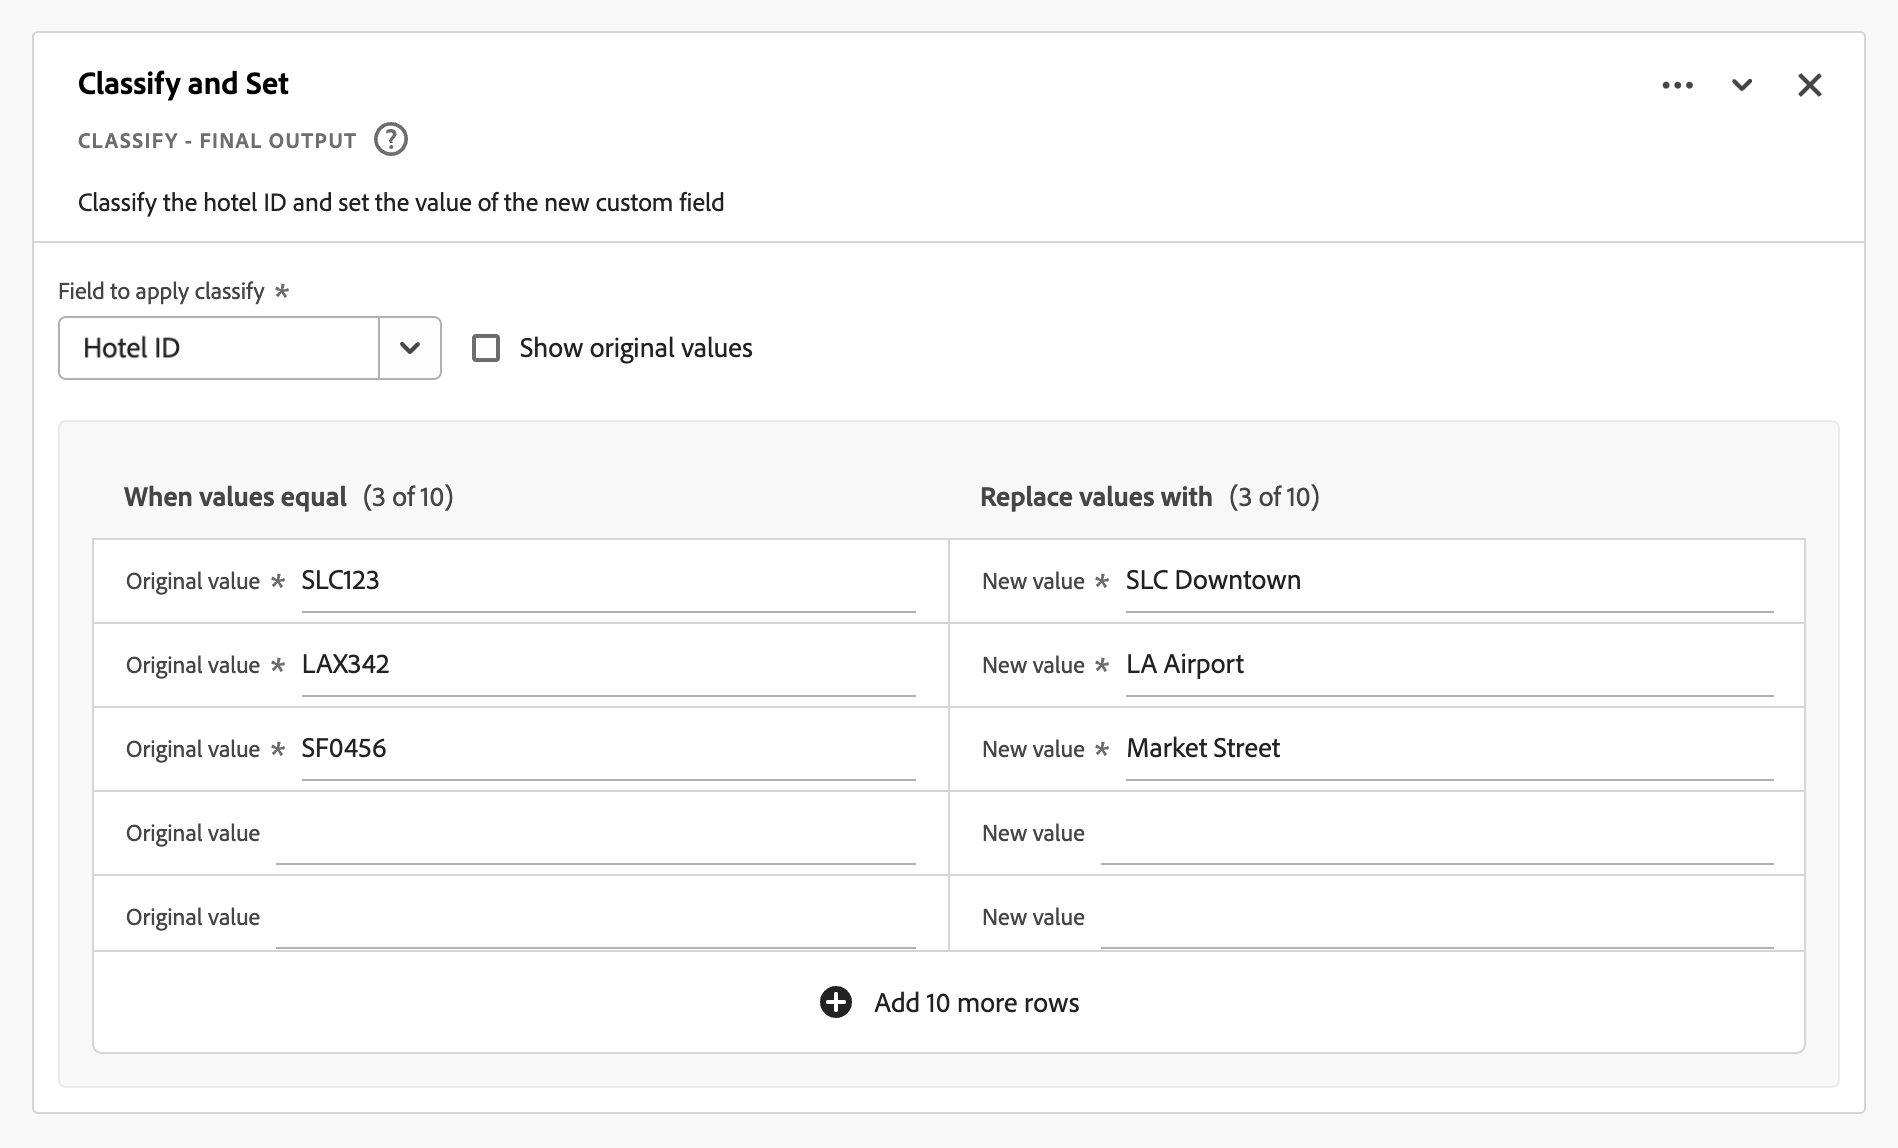
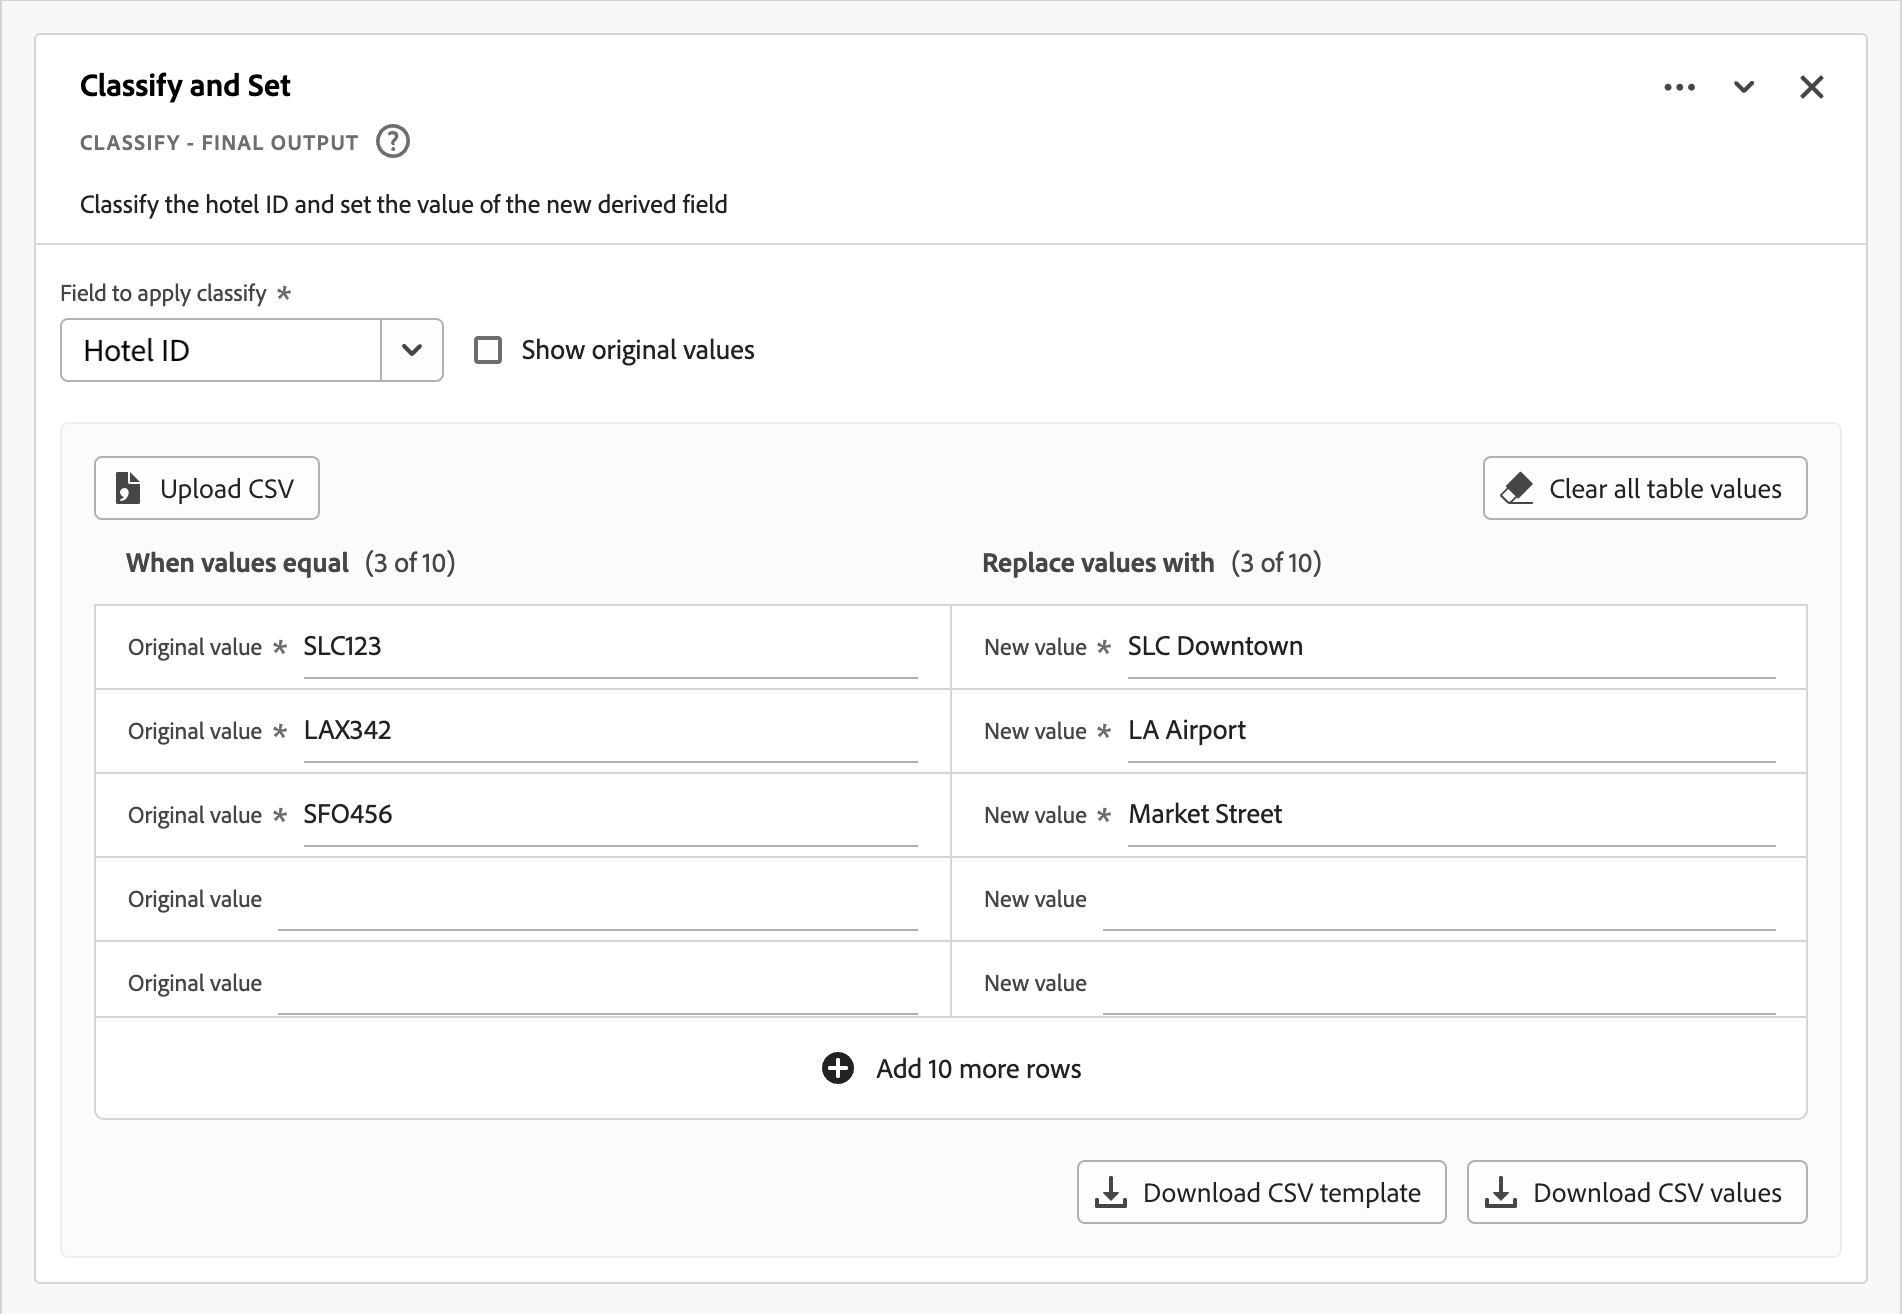
Updates on existing and new functions

diff --git a/help/data-views/derived-fields/derived-fields.md b/help/data-views/derived-fields/derived-fields.md
@@ -56,7 +56,7 @@ When you define a rule in the rule builder, you use the rule interface.
 | A | **Rule Name** | By default the rule name is **Rule X** (X referring to a sequence number). To edit the name of a rule, select its name and type in the new name, for example `Query Parameter`. |
 | B | **Function Name** | The selected function name for the rule, for example [!UICONTROL URL PARSE]. When the function is the last in the sequence of functions and determines the final output values, the function name is followed by [!UICONTROL - FINAL OUTPUT], for example [!UICONTROL URL PARSE - FINAL OUTPUT]. <br/>To show a popup with more information on the function, select ![Help icon](assets/Smock_HelpOutline_18_N.svg). |
 | C | **Rule Description** | You can optionally add a description to a rule.<br/>Select ![More icon](assets/More.svg), then select **[!UICONTROL **Add Description**]** to add a description or **[!UICONTROL **Edit Description**]** to edit an existing description.<br/>Use the editor to enter a description. You can use the toolbar to format the text (using style selector, bold, italic, underline, right, left, centered, color, number list, bullet list) and adding links to external information. <br/>To finish editing the description, click outside of the editor. |
-| D | **Function Area** | Defines the logic of the function. The interface depends on the type of function. The dropdown for [!UICONTROL Field] or [!UICONTROL Value] shows all categories of fields (rules, standard fields, fields) available, based on the type of input the function expects. See [Function reference](#function-reference) on detailed information for each of the functions supported. |
+| D | **Function Area** | Defines the logic of the function. The interface depends on the type of function. The dropdown for [!UICONTROL Field] or [!UICONTROL Value] shows all categories of fields (rules, standard fields, fields) available, based on the type of input the function expects. Alternatively, you can drag and drop a field from the Schema and Standard fields selector on to a Field or Value. When that dragged field is originating from a Lookup dataset, a Lookup function is automatically inserted before the function you define.  See [Function reference](#function-reference) on detailed information for each of the functions supported. |
 
 {style="table-layout:auto"}
 
@@ -379,7 +379,7 @@ You define a `Trip Duration (bucketed)` derived field. You create the following 
 | [!DNL long trip] |
 
 
-## More Information
+## More information
 
 Customer Journey Analytics uses a nested container structure, modeled after Adobe Experience Platform's [XDM](https://experienceleague.adobe.com/docs/experience-platform/xdm/home.html?lang=en) (Experience Data Model). See [Containers](../create-dataview.md#containers) and [Filter containers](../../components/filters/filters-overview.md#filter-containers) for more background information. This container model, albeit flexible by nature, imposes some constraints when using the rule builder. 
 
@@ -407,9 +407,6 @@ The following constraints apply and are enforced when *selecting* and *setting* 
 
 Defines a set of values that are replaced by corresponding values in a new derived field.
 
-
-
-
 +++ Details
 
 >[!NOTE]
@@ -420,7 +417,7 @@ Defines a set of values that are replaced by corresponding values in a new deriv
 
 | Input Data Type | Input | Included Operators | Limitations | Output |
 |---|---|---|---|---|
-| <ul><li>String</li><li>Numeric</li><li>Date</li></ul> | <ul><li>[!UICONTROL Field to classify]:<ul><li>Rules</li><li>Standard fields</li><li>Fields</li></ul></li><li>[!UICONTROL When value equals] and [!UICONTROL Replace values with]:</p><ul><li>String</li></ul><li>Show original values<ul><li>Boolean</li></ul></li></ul> | <p>N/A</p> | <p>5 functions per derived field</p> | <p>New derived field</p> |
+| <ul><li>String</li><li>Numeric</li><li>Date</li></ul> | <ul><li>[!UICONTROL Field to classify]:<ul><li>Rules</li><li>Standard fields</li><li>Fields</li></ul></li><li>[!UICONTROL When value equals] and [!UICONTROL Replace values with]:</p><ul><li>String</li></ul><li>Show original values<ul><li>Boolean</li></ul></li></ul> | <p>N/A</p> | <p>5 functions per derived field</br/>100 rows per function</p> | <p>New derived field</p> |
 
 {style="table-layout:auto"}
 
@@ -529,6 +526,17 @@ You define a `Page Name (updated)` derived field. You use the [!UICONTROL CLASSI
 | [!DNL Deals & Offers] |
 | [!DNL Reviews] |
 | [!DNL Generate Quote] |
+
+
+## More information {#classify-moreinfo}
+
+The following additional functionality is available in the Classify rule interface:
+
+- To quickly clear all table values, select ![Erase](https://spectrum.adobe.com/static/icons/workflow_18/Smock_Erase_18_N.svg) **[!UICONTROL Clear all table values]**.
+- To upload a CSV file containing original values for When values equal and new values for Replace values with, select ![CSV](https://spectrum.adobe.com/static/icons/workflow_18/Smock_FileCSV_18_N.svg) **[!UICONTROL Upload CSV]**.
+- To download a template for creating a CSV file with original and new values to upload, select ![Download](https://spectrum.adobe.com/static/icons/workflow_18/Smock_Download_18_N.svg) **[!UICONTROL Download CSV template]**.
+- To download a CSV file with all original and new values populated in the rule interface, select ![Download](https://spectrum.adobe.com/static/icons/workflow_18/Smock_Download_18_N.svg) **[!UICONTROL Download CSV values]**.
+ 
 
 +++
 
@@ -679,6 +687,106 @@ You define an `Email Marketing (updated)` derived field. You use the [!UICONTROL
 
 +++
 
+
+<!-- LOOKUP -->
+
+### Lookup
+
+Lookup values using a field from a lookup dataset and returns value in a new derived field or for further rules processing.
+
++++ Details
+
+## Specification {#lookup-io}
+
+| Input Data Type | Input | Included Operators | Limit | Output |
+|---|---|---|---|---|
+| <ul><li>String</li><li>Numeric</li><li>Date</li></ul> | <ul><li>[!UICONTROL Field to apply lookup]:</li><ul><li>Rules</li><li>Standard fields</li><li>Fields</li></ul><li>[!UICONTROL Lookup dataset]</li><ul><li>Dataset</li></ul><li>[!UICONTROL Matching key]<ul><li>Rules</li><li>Fields</li></ul></li><li>Values to return<ul><li>Rules</li><li>Fields</li></ul></li></ul> | <p>N/A</p> | <p>3 functions per derived field</p> | <p>New derived field or value for further processing in next rule</p> |
+
+{style="table-layout:auto"}
+
+## Use case {#lookup-uc}
+
+You would like to lookup the activity name using the activity id collected when your customers clicked on a personalized banner shown through Adobe Target. You want to use a lookup dataset with Analytics for Target (A4T) activities containing activity ids and activity names.
+
+### A4T lookup dataset {#lookup-uc-lookup}
+
+| Activity Id | Activity Name |
+|---|---|
+| 415851 | MVT Test Category Pages |
+| 415852 | Luma - Campaign Max 2022 |
+| 402922 | Home Page Banners |
+
+{style="table-layout:auto"}
+
+### Derived field {#lookup-uc-derivedfield}
+
+You define an `Activity Name` derived field. You use the [!UICONTROL LOOKUP] function to define a rule to lookup the value from your collected data, specified in the [!UICONTROL Field to apply lookup] field. You select the lookup dataset from the [!UICONTROL Lookup dataset] list, selecting the identifier field from the [!UICONTROL Matching key list] and the field to return from the [!UICONTROL Values to return] list.
+
+![Screenshot of the Lowercase rule](assets/lookup.png)
+
+## More info
+
+You can quickly insert a [!UICONTROL Lookup] function in the rule builder, already containing one or more other functions.
+
+  1. Select **[!UICONTROL Schema fields]** from selector.
+  1. Select ![Schema field icon](assets/Smock_Folder_18_N.svg) **[!UICONTROL Lookup datasets]**.
+  1. Select your lookup dataset and find the field you want to use for lookup.
+  1. Drag the lookup field and drop the field on any of the available input fields for a function (for example Case When). When valid, a blue **[!UICONTROL + Add box]** will allow you to drop the field and automatically insert a Lookup function before the function you dropped the lookup field on, and populate the Lookup function with relevant values for all fields.
+     ![Lookup drag](assets/lookup-drag.png) 
+
++++
+
+<!-- LOWERCASE -->
+
+### Lowercase
+
+Converts values from a field to lowercase and stores it into a new derived field.
+
++++ Details
+
+## Specification {#lowercase-io}
+
+| Input Data Type | Input | Included Operators | Limit | Output |
+|---|---|---|---|---|
+| <ul><li>String</li><li>Numeric</li><li>Date</li></ul> | <ul><li>[!UICONTROL Field]:</li><ul><li>Rules</li><li>Standard fields</li><li>Fields</li></ul> | <p>N/A</p> | <p>2 functions per derived field</p> | <p>New derived field</p> |
+
+{style="table-layout:auto"}
+
+## Use case {#lowercase-uc}
+
+You would like to convert all collected product names into lowercase for proper reporting.
+
+### Data before {#lowercase-uc-databefore}
+
+| Collected Product Names | Product Views |
+|---|---:|
+| Tennis racket | 35 |
+| Tennis Racket | 33 |
+| tennis racket | 21 |
+| Baseball bat | 15 |
+| Baseball Bat | 12 |
+| baseball bat | 10 |
+
+{style="table-layout:auto"}
+
+### Derived field {#lowercase-uc-derivedfield}
+
+You define a `Product Names` derived field. You use the [!UICONTROL LOWERCASE] function to define a rule to convert the value from the [!UICONTROL Collected Product Names] field to lowercase and store that in the new derived field.
+
+![Screenshot of the Lowercase rule](assets/lowercase.png)
+
+
+### Data after {#lowercase-uc-dataafter}
+
+| Product Names | Product Views |
+|---|---|
+| tennis racket | 89 |
+| baseball bat | 37 |
+
+{style="table-layout:auto"}
+
++++
+
 <!-- MERGE FIELDS -->
 
 ### Merge Fields
@@ -736,7 +844,7 @@ You define a `Cross Channel Interactions` derived field. You use the [!UICONTROL
 
 {style="table-layout:auto"}
 
-## More Information {#merge-fields-moreinfo}
+## More information {#merge-fields-moreinfo}
 
 You have to select the same type of fields within a Merge Fields rule. For example, if you select a Date field, all other fields you want to merge have to be Date fields.
 
@@ -792,7 +900,7 @@ You create a `Page Identifier` derived field. You use the [!UICONTROL REGEX REPL
 | customer-journey-analytics.html |
 | adobe-experience-platform.html |
 
-## More Information
+## More information
 
 Customer Journey Analytics uses a subset of the Perl regex syntax. The following expressions are supported:
 
@@ -937,7 +1045,6 @@ You create a `Second Response` derived field to take the last value  from the [!
 
 <!-- TRIM -->
 
-
 ### Trim
 
 Trims whitespace, special characters or number of characters from either the beginning or the end of field values into a new derived field.
@@ -948,7 +1055,7 @@ Trims whitespace, special characters or number of characters from either the beg
 
 | Input Data Type | Input | Included Operators | Limit | Output |
 |---|---|---|---|---|
-| <ul><li>String</li></ul> | <ul><li>[!UICONTROL Field]<ul><li>Rules</li><li>Standard fields</li><li>Fields</li></ul></li><li>Trim whitespace</li><li>Trim special characters<ul><li>Input of special characters</li></ul></li><li>Trim from left<ul><li>From&nbsp;<ul><li>String start</li><li>Position<ul><li>Position #</li></ul></li><li>String<ul><li>String value</li><li>Index</li><li>Flag to include string</li></ul></li></ul></li><li>To<ul><li>String end</li><li>Position<ul><li>Position #</li></ul></li><li>String<ul><li>String value</li><li>Index</li><li>Flag to include string</li></ul></li><li>Length</li></ul></li></ul></li><li>Trim from right<ul><li>From&nbsp;<ul><li>String end</li><li>Position<ul><li>Position #</li></ul></li><li>String<ul><li>String value</li><li>Index</li><li>Flag to include string</li></ul></li></ul></li><li>To<ul><li>String start</li><li>Position<ul><li>Position #</li></ul></li><li>String<ul><li>String value</li><li>Index</li><li>Flag to include string</li></ul></li><li>Length</li></ul></li></ul></li></ul> | <p>N/A</p> | <p>5 functions per derived field</p> | <p>New derived field</p> |
+| <ul><li>String</li></ul> | <ul><li>[!UICONTROL Field]<ul><li>Rules</li><li>Standard fields</li><li>Fields</li></ul></li><li>Trim whitespace</li><li>Trim special characters<ul><li>Input of special characters</li></ul></li><li>Trim from left<ul><li>From&nbsp;<ul><li>String start</li><li>Position<ul><li>Position #</li></ul></li><li>String<ul><li>String value</li><li>Index</li><li>Flag to include string</li></ul></li></ul></li><li>To<ul><li>String end</li><li>Position<ul><li>Position #</li></ul></li><li>String<ul><li>String value</li><li>Index</li><li>Flag to include string</li></ul></li><li>Length</li></ul></li></ul></li><li>Trim from right<ul><li>From&nbsp;<ul><li>String end</li><li>Position<ul><li>Position #</li></ul></li><li>String<ul><li>String value</li><li>Index</li><li>Flag to include string</li></ul></li></ul></li><li>To<ul><li>String start</li><li>Position<ul><li>Position #</li></ul></li><li>String<ul><li>String value</li><li>Index</li><li>Flag to include string</li></ul></li><li>Length</li></ul></li></ul></li></ul> | <p>N/A</p> | <p>1 function per derived field</p> | <p>New derived field</p> |
 
 {style="table-layout:auto"}
 
@@ -1139,7 +1246,7 @@ The following limitations apply to the Derived field functionality in general:
   - From this maximum of ten different schema fields, only a maximum of three lookup schema or profile schema fields are allowed.
 - You can have a maximum of 100 derived fields per Customer Journey Analytics connection.
 
-## More Information
+## More information
 
 - [Making the Most of Your Data: A Framework for Using Derived Fields in Customer Journey Analytics](https://experienceleaguecommunities.adobe.com/t5/adobe-analytics-blogs/making-the-most-of-your-data-a-framework-for-using-derived/ba-p/601670)
 
